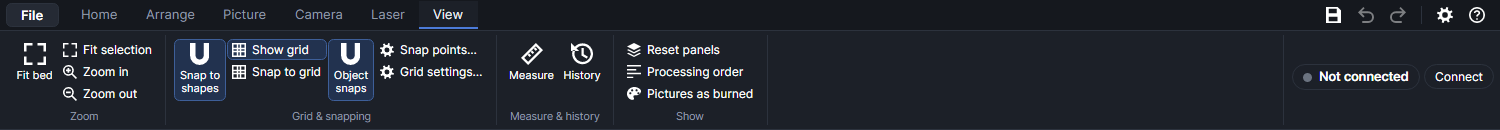
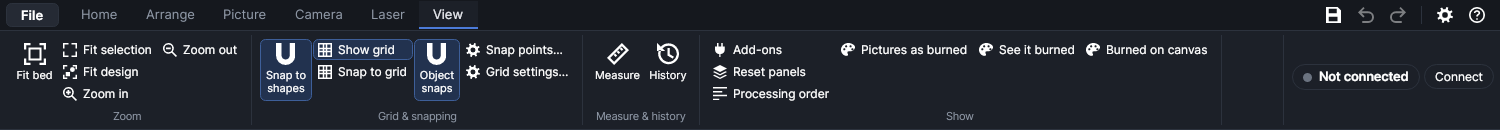
Zoom buttons in the work area's bottom-right corner
Four small icon buttons, with tips: the whole bed, the whole design, zoom in,
zoom out. They run the same commands as the shortcuts (tips show the shortcut
as currently set) and sit in the margin the fitted bed leaves, under the
close-up camera when it's open.

New "Fit design" command (View tab, Shift+F): zooms to every shape whatever
is selected. Fit selection now shares its code. New icons for fitting the bed
and the design. Help pages, the zoom tutorial (new "panel:Zoom buttons"
target) and the workspace and View tab pictures updated.

Claude-Session: https://claude.ai/code/session_018iRXF393E1r87semn1B1Q5

diff --git a/src/PhotonCanvas.App/ZoomButtons.cs b/src/PhotonCanvas.App/ZoomButtons.cs
@@ -1,0 +1,80 @@
+using Avalonia;
+using Avalonia.Controls;
+using Avalonia.Layout;
+using Avalonia.Media;
+using PhotonCanvas.Doc;
+using static PhotonCanvas.App.UiKit;
+
+namespace PhotonCanvas.App;
+
+/// <summary>
+/// Four small icon buttons in the bottom-right corner of the work area: the whole bed, the whole
+/// design, zoom in and zoom out. Each runs the same command as its keyboard shortcut, and its tip
+/// shows that shortcut as it's set now (shortcuts can be changed).
+/// </summary>
+public sealed class ZoomButtons : UserControl
+{
+    /// <summary>The buttons, in order: icon, what it does, the command it runs.</summary>
+    public static readonly (string Icon, string Tip, string Command)[] Buttons =
+    [
+        ("IcFitBed", "Show the whole bed", "view.fit"),
+        ("IcFitDesign", "Show the whole design", "view.fitdesign"),
+        ("IcZoomIn", "Zoom in", "view.zoomin"),
+        ("IcZoomOut", "Zoom out", "view.zoomout"),
+    ];
+
+    public ZoomButtons(Func<string, HotCommand?> command, AppSettings settings)
+    {
+        var row = new StackPanel { Orientation = Orientation.Horizontal, Spacing = 1 };
+        foreach (var (icon, tip, id) in Buttons)
+        {
+            var b = new Button
+            {
+                Classes = { "icon" },
+                Width = 26, Height = 26, MinWidth = 0, MinHeight = 0, Padding = new(0),
+                HorizontalContentAlignment = HorizontalAlignment.Center, VerticalContentAlignment = VerticalAlignment.Center,
+                // Clicking leaves the keyboard with the canvas, so shortcuts keep working.
+                Focusable = false,
+                Content = new PathIcon { Data = Icon(icon), Width = 15, Height = 15 },
+            };
+            AutomationName(b, tip);
+            ToolTip.SetTip(b, tip);
+            // Looked up when used: the commands are made after the window, and shortcuts can be changed.
+            b.PointerEntered += (_, _) => { if (command(id) is { } c) ToolTip.SetTip(b, Tip(tip, HotkeysWindow.Keys(c, settings))); };
+            b.Click += (_, _) => command(id)?.Run();
+            row.Children.Add(b);
+        }
+        Content = new Border
+        {
+            Background = Brush("HudBg"), BorderBrush = Brush("Line"), BorderThickness = new(1),
+            CornerRadius = new(7), Padding = new(2),
+            // Small enough to sit in the margin the fitted bed leaves (40 px), so it never covers the bed.
+            Margin = new(0, 0, 8, 6),
+            Child = row,
+        };
+    }
+
+    static void AutomationName(Control c, string name) => Avalonia.Automation.AutomationProperties.SetName(c, name);
+
+    /// <summary>"Zoom in (Ctrl+=)": the first of the command's shortcuts, written as on the keyboard.</summary>
+    public static string Tip(string what, string keys)
+    {
+        var first = keys.Split('|', StringSplitOptions.RemoveEmptyEntries).FirstOrDefault();
+        return first is null ? what : $"{what} ({KeyText(first)})";
+    }
+
+    /// <summary>A shortcut as it's written on the keys: "Ctrl+OemPlus" → "Ctrl+=", "Ctrl+D0" → "Ctrl+0".</summary>
+    public static string KeyText(string gesture) => string.Join("+", gesture.Split('+').Select(k => k switch
+    {
+        "OemPlus" => "=",
+        "OemMinus" => "-",
+        "Add" => "Num +",
+        "Subtract" => "Num -",
+        "OemQuotes" => "'",
+        "OemComma" => ",",
+        "OemPeriod" => ".",
+        _ when k.Length == 2 && k[0] == 'D' && char.IsDigit(k[1]) => k[1..],
+        _ when k.StartsWith("NumPad", StringComparison.Ordinal) => "Num " + k[6..],
+        _ => k,
+    }));
+}

diff --git a/src/PhotonCanvas.App/MainWindow.axaml.cs b/src/PhotonCanvas.App/MainWindow.axaml.cs
@@ -28,6 +28,7 @@ public partial class MainWindow : Window
     readonly Ribbon _ribbon = new();
     readonly Updater _updater;
     CloseUpView? _closeUp;
+    ZoomButtons? _zoomButtons;
 
     /// <summary>The close-up camera on the work area: open or close it.</summary>
     void ToggleCloseUp(bool open)
@@ -123,6 +124,7 @@ public partial class MainWindow : Window
         ApplyGrid();
         Canvas.CursorMoved += p => CursorText.Text = p is { } v ? $"X {Units.Num(v.X)}   Y {Units.Num(v.Y)} {Units.Name}" : "";
         Canvas.ZoomChanged += z => ZoomText.Text = $"{z / 3.7795 * 100:0}%";
+        ZoomHost.Content = _zoomButtons = new ZoomButtons(id => Commands().FirstOrDefault(c => c.Id == id), _settings);
         _doc.Changed += _ => UpdateChrome();
         _doc.Changed += _ => FollowSelectionLayer();
         _doc.Changed += _ => ShowCloseUpArea();
@@ -662,8 +664,9 @@ public partial class MainWindow : Window
         // ---- View ----
         var view = _ribbon.Tab("View", "Zoom, grid and snapping");
         var zoom = view.Group("Zoom");
-        zoom.Large("Fit bed", "IcFit", Canvas.FitField, "Show the whole work area (Home)");
+        zoom.Large("Fit bed", "IcFitBed", Canvas.FitField, "Show the whole work area (Home)");
         zoom.Small("Fit selection", "IcFit", Canvas.FitSelection, "Zoom to the selection, or the design (F)");
+        zoom.Small("Fit design", "IcFitDesign", Canvas.FitDesign, "Zoom to the whole design, whatever is selected (Shift+F)");
         zoom.Small("Zoom in", "IcZoomIn", () => Canvas.ZoomBy(1.25), "Zoom in (Ctrl +)");
         zoom.Small("Zoom out", "IcZoomOut", () => Canvas.ZoomBy(0.8), "Zoom out (Ctrl −)");
         var grid = view.Group("Grid & snapping");
@@ -808,6 +811,7 @@ public partial class MainWindow : Window
         new("view.zoomout", "View", "Zoom out", "Ctrl+OemMinus|Ctrl+Subtract", () => Canvas.ZoomBy(0.8)),
         new("view.fit", "View", "Fit work area", "Home|Ctrl+D0|Ctrl+NumPad0", Canvas.FitField),
         new("view.fitsel", "View", "Fit selection", "F", Canvas.FitSelection),
+        new("view.fitdesign", "View", "Fit design", "Shift+F", Canvas.FitDesign),
         new("view.grid", "View", "Grid settings…", "Ctrl+OemQuotes", () => _ = Guard(ShowGridSettings)),
         new("view.osnap", "View", "Object snaps on or off", "F3", ToggleObjectSnaps),
         new("tool.select", "Tools", "Select", "V", () => Canvas.Tool = Tool.Select),

diff --git a/tools/helpcheck.py b/tools/helpcheck.py
@@ -19,7 +19,7 @@ APP = os.path.join(ROOT, "src", "PhotonCanvas.App")
 TARGET_KINDS = {"ribbon", "tab", "header", "panel", "canvas", "field", "button", "tabitem", "text", "window"}
 WAIT_KINDS = {"window", "closed", "selection", "shapes", "tool", "tab", "layer-mode", "layers", "zoom", "picture-selected"}
 HEADERS = {"file", "save", "undo", "redo", "settings", "help"}
-PANELS = {"layers", "selection", "layer settings", "job", "machine"}
+PANELS = {"layers", "selection", "layer settings", "job", "machine", "zoom buttons"}
 TOOLS = {"select", "rect", "ellipse", "polygon", "star", "line", "pen", "text", "nodes", "pan", "wand", "magnetic", "measure", "trim", "align2", "scissors", "tabs", "start", "eraser"}
 MODES = {"cut", "score", "fill", "image"}
 CATEGORIES = ["Getting started", "The workspace", "Drawing", "Editing shapes", "Arranging", "Importing and exporting", "Layers and settings",

diff --git a/src/PhotonCanvas.Doc/Help/HelpBook.cs b/src/PhotonCanvas.Doc/Help/HelpBook.cs
@@ -420,7 +420,7 @@ public static class TutorialTargets
     public static readonly string[] TargetKinds = ["ribbon", "tab", "header", "panel", "canvas", "field", "button", "tabitem", "text", "window"];
     public static readonly string[] WaitKinds = ["window", "closed", "selection", "shapes", "tool", "tab", "layer-mode", "layers", "zoom", "picture-selected"];
     public static readonly string[] Headers = ["File", "Save", "Undo", "Redo", "Settings", "Help"];
-    public static readonly string[] Panels = ["Layers", "Selection", "Layer settings", "Job", "Machine"];
+    public static readonly string[] Panels = ["Layers", "Selection", "Layer settings", "Job", "Machine", "Zoom buttons"];
 
     /// <summary>The kind and the rest of a target or wait ("ribbon:Home/Text" → ("ribbon", "Home/Text")).</summary>
     public static (string Kind, string Value) Split(string s)

diff --git a/src/PhotonCanvas.App/CanvasView.cs b/src/PhotonCanvas.App/CanvasView.cs
@@ -299,7 +299,18 @@ public sealed partial class CanvasView : Control
     public void FitSelection()
     {
         if (_doc is null) return;
-        var b = _doc.Selection.Count > 0 ? _doc.State.Bounds(_doc.Selection) : _doc.State.Bounds(_doc.State.Shapes.Select(s => s.Id));
+        if (_doc.Selection.Count > 0) FitShapes(_doc.State.Bounds(_doc.Selection)); else FitDesign();
+    }
+
+    /// <summary>Zoom to everything in the design, whatever is selected; the whole bed when it's empty.</summary>
+    public void FitDesign()
+    {
+        if (_doc is null) return;
+        FitShapes(_doc.State.Bounds(_doc.State.Shapes.Select(s => s.Id)));
+    }
+
+    void FitShapes(Rect2 b)
+    {
         if (b.IsEmpty) FitField(); else FitRect(b.Inflate(Math.Max(b.Width, b.Height) * 0.05 + 1));
     }
 

diff --git a/src/PhotonCanvas.App/MainWindow.Help.cs b/src/PhotonCanvas.App/MainWindow.Help.cs
@@ -70,6 +70,7 @@ public partial class MainWindow : ITutorialHost
                 {
                     "job" => JobHost,
                     "machine" => _hud,
+                    "zoom buttons" => _zoomButtons,
                     _ => _docking.Show(value),
                 };
             case "canvas":

diff --git a/docs/help/canvas.md b/docs/help/canvas.md
@@ -300,13 +300,18 @@ Guides are lines across the work area to line things up against.
 | To | Do this |
 |---|---|
 | Zoom in or out where the cursor is | Turn the mouse wheel. |
-| Zoom in or out about the middle of the view | View → **Zoom in**, View → **Zoom out**, or `Ctrl+=` and `Ctrl+-` (the keypad's + and − work too). |
-| See the whole work area | View → **Fit bed**, `Home` or `Ctrl+0`. |
+| Zoom in or out about the middle of the view | View → **Zoom in**, View → **Zoom out**, `Ctrl+=` and `Ctrl+-` (the keypad's + and − work too), or the last two zoom buttons. |
+| See the whole work area | View → **Fit bed**, `Home`, `Ctrl+0`, or the first zoom button. |
 | Fill the view with the selection (or the whole design if nothing is selected) | View → **Fit selection** or `F`. Right-click → Zoom to it does the same. |
+| Fill the view with the whole design, whatever is selected | View → **Fit design**, `Shift+F`, or the second zoom button. |
 | Pan | Hold `Space` and drag, drag with the middle mouse button, or choose Home → **Pan** (`H`) and drag. |
 | Scroll sideways | `Shift` + mouse wheel. |
 | Scroll up and down | `Ctrl` + mouse wheel. |
 
+- **The zoom buttons** are the four small icons in the work area's bottom-right corner, from left
+  to right: the whole bed, the whole design, zoom in and zoom out. Hover over one for its
+  shortcut. They sit in the margin around the bed, so they don't cover it when it's fitted; with
+  the close-up camera open, its picture sits just above them.
 - The status bar shows the zoom: 100% is about life size on a typical screen. It goes from about
   5% to about 10 000%.
 - The program opens showing the whole work area, or, when it reopens your last design, the view

diff --git a/docs/help/workspace.md b/docs/help/workspace.md
@@ -14,6 +14,8 @@ zoom and snap on the work area itself is on [Working on the canvas](canvas.md).
 3. **The Layers panel** on the left: every layer, what it does and how long it takes.
 4. **The tool options bar** and **the pages bar** above the work area.
 5. **The work area** (the canvas) in the middle: the machine's 220 × 220 mm field, with rulers.
+   Four small zoom buttons sit in its bottom-right corner: the whole bed, the whole design, zoom
+   in and zoom out.
 6. **The job bar** under the work area: **Ship It**, **Frame**, the run order and the time.
 7. **The Selection** and **Layer settings** panels on the right.
 8. **The status bar** along the bottom: the cursor position, the zoom and messages.
@@ -92,6 +94,7 @@ one does. If it still doesn't fit, the ribbon scrolls sideways.
 |---|---|---|
 | **Fit bed** | Shows the whole work area (`Home`). | [Zooming and panning](canvas.md#zooming-and-panning) |
 | **Fit selection** | Zooms to the selection, or to the whole design when nothing is selected (`F`). | [Zooming and panning](canvas.md#zooming-and-panning) |
+| **Fit design** | Zooms to the whole design, whatever is selected (`Shift+F`). | [Zooming and panning](canvas.md#zooming-and-panning) |
 | **Zoom in**, **Zoom out** | Zoom about the middle of the view (`Ctrl+=` and `Ctrl+-`). | [Zooming and panning](canvas.md#zooming-and-panning) |
 | **Snap to shapes** | On: dragged shapes line up with other shapes, guides and the work area's edges and centre lines. | [Snapping](canvas.md#snapping-the-grid-and-guides) |
 | **Show grid** | Shows or hides the grid on the work area. | [The grid](canvas.md#the-grid) |

diff --git a/docs/help/tutorials/ws-zoom.md b/docs/help/tutorials/ws-zoom.md
@@ -1,15 +1,21 @@
 # Zoom and pan
 <!-- category: The workspace -->
-<!-- summary: Zoom in and out, fit the bed or the selection, and move the view around. -->
+<!-- summary: Zoom in and out, fit the bed, the design or the selection, and move the view around. -->
 <!-- page: canvas.md#zooming-and-panning -->
 <!-- order: 80 -->
-Zoom in for detail and out for the whole job. The mouse does most of it; the View tab has
-buttons for the rest.
+Zoom in for detail and out for the whole job. The mouse does most of it; the zoom buttons in
+the work area's corner and the View tab do the rest.
 
 ## Zoom with the wheel
 <!-- target: canvas -->
 <!-- wait: zoom -->
 Turn the mouse wheel over the work area: it zooms in or out where the cursor is.
+
+## The zoom buttons
+<!-- target: panel:Zoom buttons -->
+The four small icons in the bottom-right corner of the work area, from left to right: the whole
+bed (`Home`), the whole design (`Shift+F`), zoom in and zoom out. They're there whichever tab is
+open.
 
 ## Zoom in
 <!-- target: ribbon:View/Zoom in -->
@@ -24,6 +30,10 @@ Click **Zoom out** (`Ctrl+-`).
 ## Fit the selection
 <!-- target: ribbon:View/Fit selection -->
 **Fit selection** (`F`) fills the view with what's selected, or with the whole design.
+
+## Fit the design
+<!-- target: ribbon:View/Fit design -->
+**Fit design** (`Shift+F`) fills the view with the whole design, even with something selected.
 
 ## Fit the bed
 <!-- target: ribbon:View/Fit bed -->

diff --git a/docs/help/AUTHORING.md b/docs/help/AUTHORING.md
@@ -73,7 +73,7 @@ Type the speeds to try, separated by commas.
 | `ribbon:Tab/Label` | A ribbon button (its tab is opened). Icon-only buttons by their tooltip: `ribbon:Arrange/Align left edges`. |
 | `tab:Name` | A ribbon tab's header. |
 | `header:File`, `Save`, `Undo`, `Redo`, `Settings`, `Help` | The buttons along the top. |
-| `panel:Layers`, `Selection`, `Layer settings`, `Job`, `Machine` | A panel (unfolded if folded). |
+| `panel:Layers`, `Selection`, `Layer settings`, `Job`, `Machine`, `Zoom buttons` | A panel (unfolded if folded); `Zoom buttons` is the row in the work area's bottom-right corner. |
 | `canvas` | The work area. |
 | `field:Label` | A setting by its name, in whichever window is open (the newest first). Sections it's in are opened. |
 | `button:Text` | A button or checkbox by its text (or, for a button whose text changes, how its text starts: `button:Save chosen squares`). |

diff --git a/docs/help/keyboard-shortcuts.md b/docs/help/keyboard-shortcuts.md
@@ -91,6 +91,7 @@ one page, with only the first key of a command that has more than one.
 | Zoom out | `Ctrl+-` or `Ctrl` and the keypad's `-` |
 | Fit work area | `Home`, `Ctrl+0` or `Ctrl` and the keypad's `0` |
 | Fit selection | `F` |
+| Fit design | `Shift+F` |
 | Grid settings… | `Ctrl+'` |
 | Object snaps on or off | `F3` |
 
